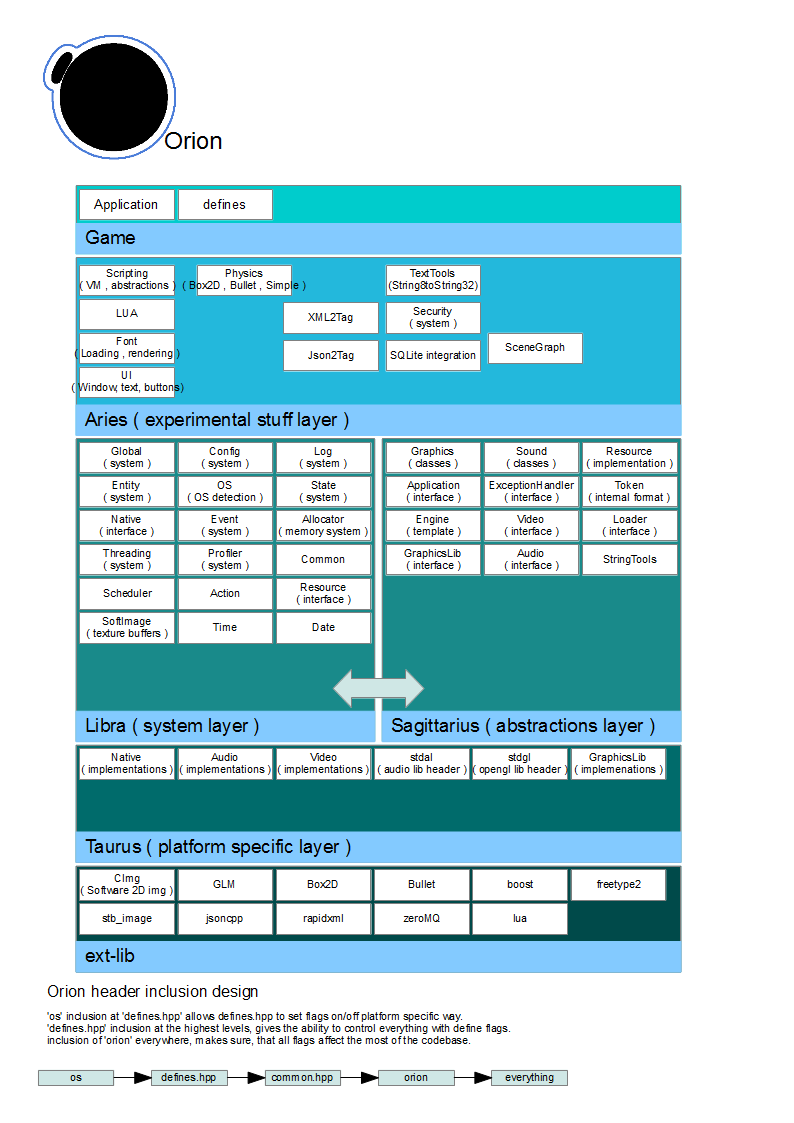
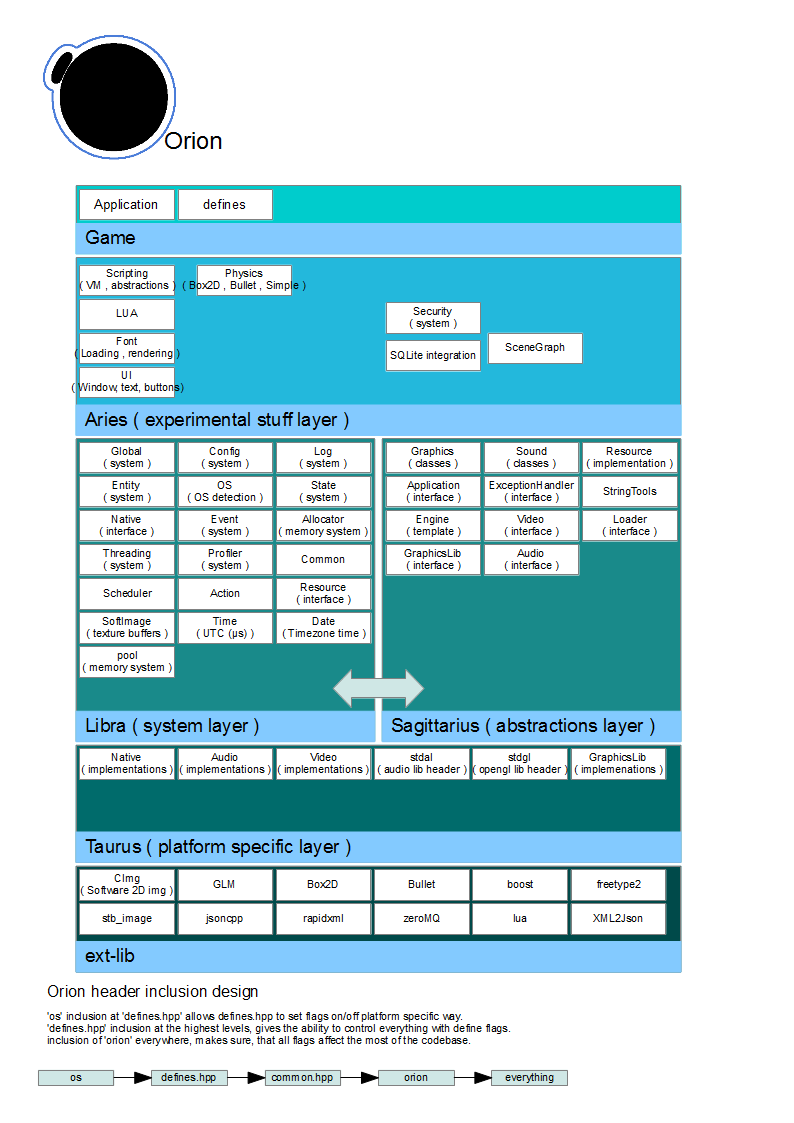
xml2json parser interface.

diff --git a/ext-lib/xml2jsoncpp/xml2jsonparser.hpp b/ext-lib/xml2jsoncpp/xml2jsonparser.hpp
@@ -1,0 +1,27 @@
+/*
+ * xml2jsonparser.hpp
+ *
+ *  Created on: 20.7.2012
+ *      Author: akin
+ */
+
+#ifndef XML2JSONPARSER_HPP_
+#define XML2JSONPARSER_HPP_
+
+#include <json>
+#include <rapidxml/rapidxml.hpp>
+
+namespace xml2json
+{
+
+class Parser
+{
+public:
+	Parser();
+	virtual ~Parser();
+
+	void convert( rapidxml::xml_node<>& source , Json::Value& target );
+};
+
+} // namespace xml2json 
+#endif // XML2JSONPARSER_HPP_ 

diff --git a/ext-lib/xml2jsoncpp/xml2jsonparser.cpp b/ext-lib/xml2jsoncpp/xml2jsonparser.cpp
@@ -1,0 +1,25 @@
+/*
+ * xml2jsonparser.cpp
+ *
+ *  Created on: 20.7.2012
+ *      Author: akin
+ */
+
+#include "xml2jsonparser.hpp"
+
+namespace xml2json
+{
+
+Parser::Parser()
+{
+}
+
+Parser::~Parser()
+{
+}
+
+void Parser::convert( rapidxml::xml_node<>& source , Json::Value& target )
+{
+}
+
+} // namespace xml2json 
